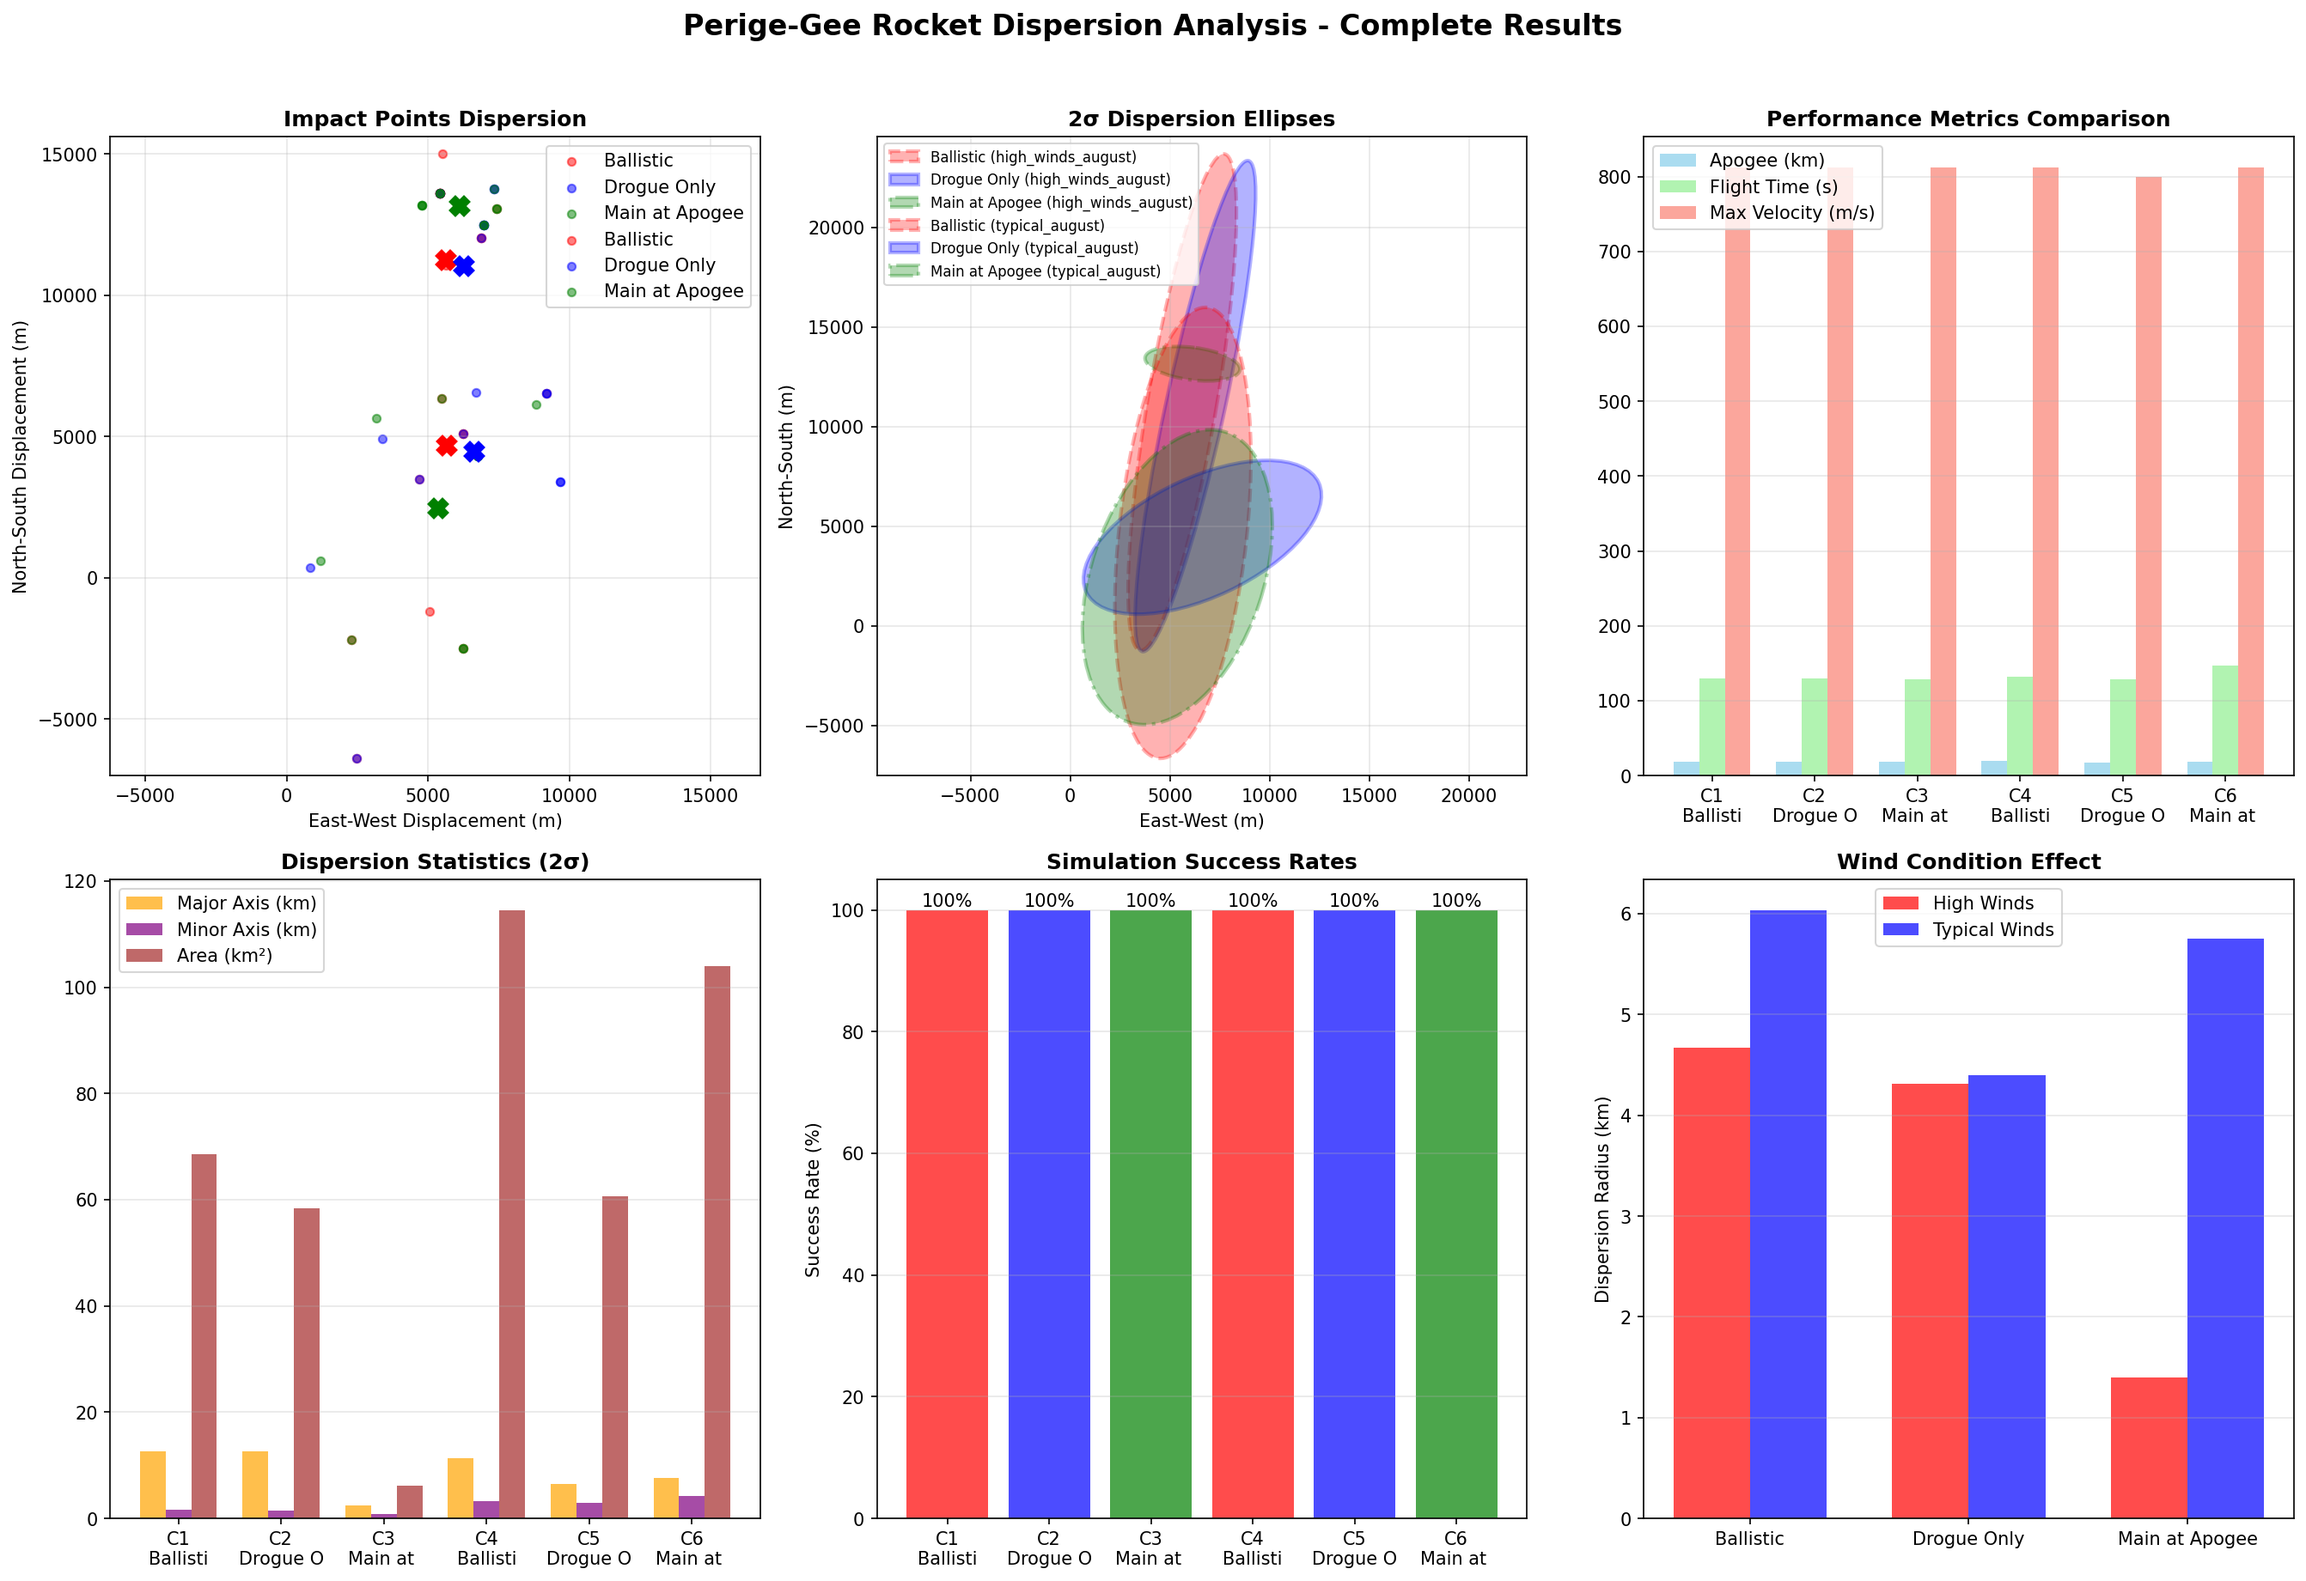
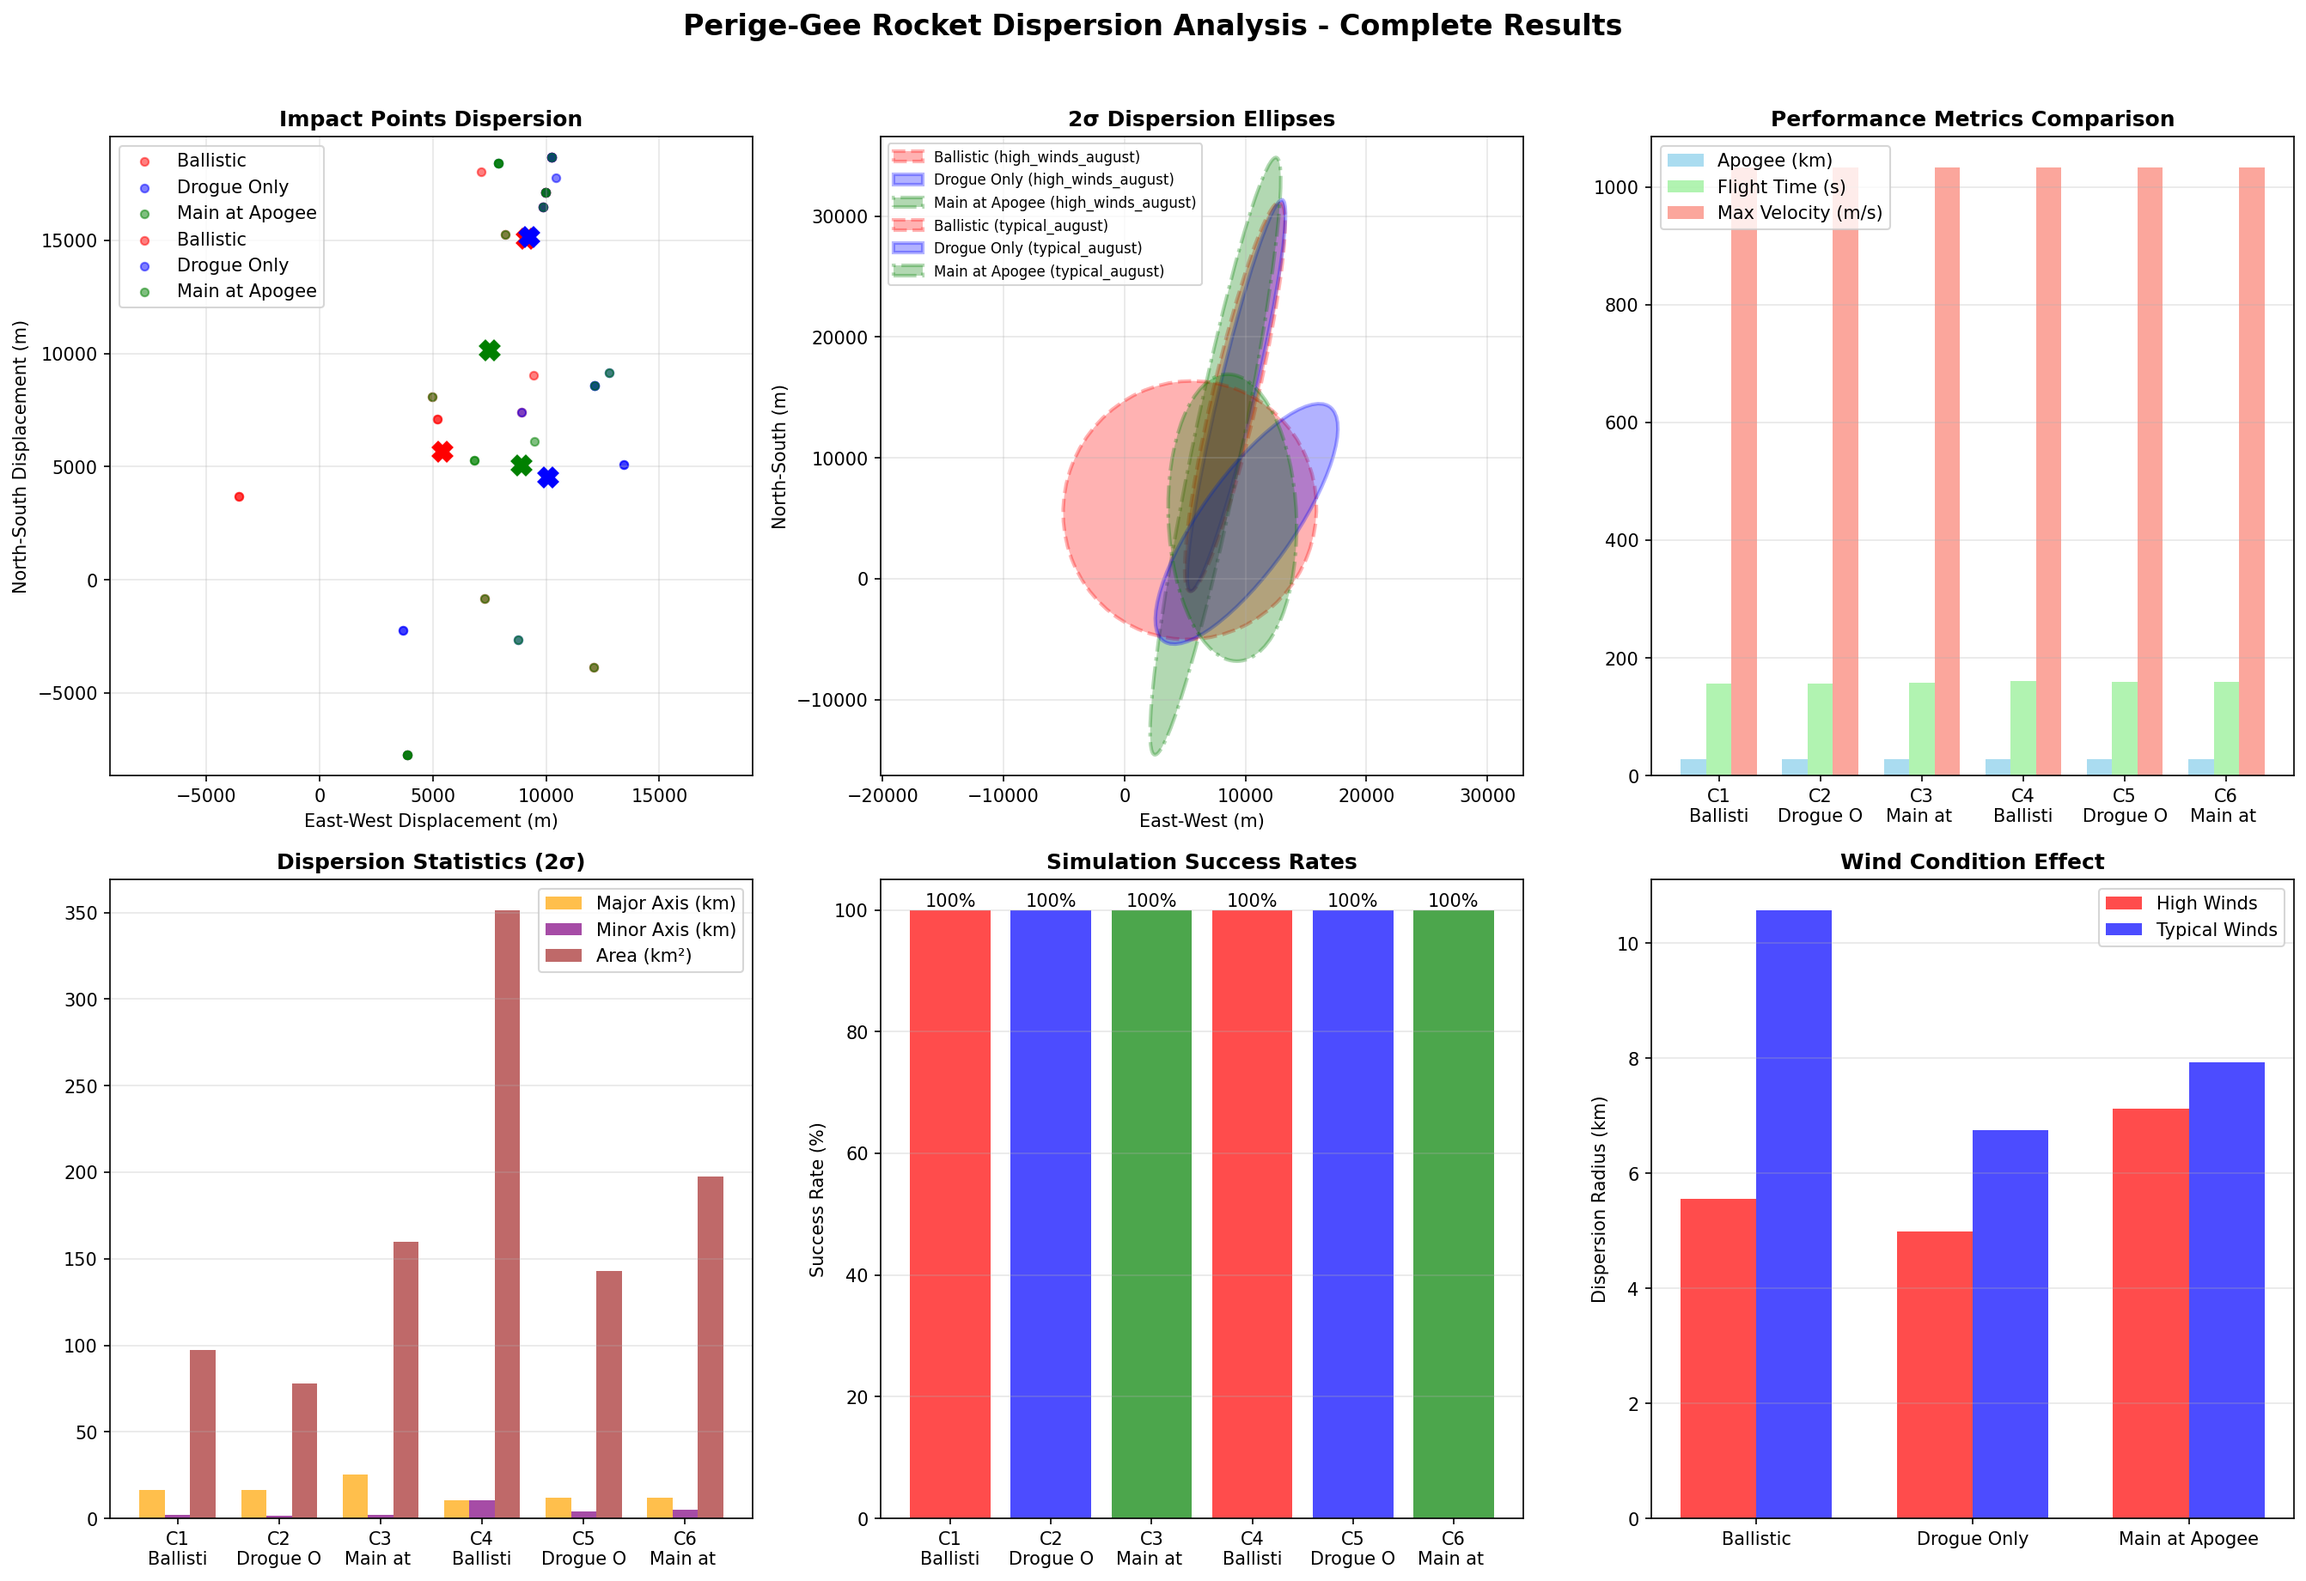
changez

diff --git a/Dispersion Analysis/monte_carlo.py b/Dispersion Analysis/monte_carlo.py
@@ -25,14 +25,14 @@ print("="*80)
 
 PERIGE_GEE_PARAMS = {
     'name': 'Perige-Gee',
-    'mass': 12.863,  # kg (dry)
-    'radius': 39.6215/1000,  # m
+    'mass': 8,  # kg (dry)
+    'radius': 26.416/1000,  # m
     'inertia': (0.85, 0.85, 0.02),  
     'com_without_motor': 0.62,
     'motor_impulse': 1415.15,  # N-s
     'burn_time': 5.274,  # s
-    'cd_s_drogue': 1.4,  # m²
-    'cd_s_main': 2.2,  # m² 
+    'cd_s_drogue': 1.4 * 3.14 *0.4*0.4/2,  # m²
+    'cd_s_main': 2.2 * 3.14*1.3*1.3/2,  # m² 
     'inclination': 84.7,  # degrees
     'heading': 53,  # degrees from north
     'rail_length': 5.2,
@@ -40,8 +40,8 @@ PERIGE_GEE_PARAMS = {
 
 LAUNCH_SITE = {
     'name': 'Timmins',
-    'latitude': 48.4669,
-    'longitude': -81.333,
+    'latitude': 47.9870,
+    'longitude': -81.84830,
     'elevation': 305,  # m
     'utm_zone': '17T',
 }
@@ -151,15 +151,16 @@ def create_perige_gee_rocket(rocket_params, drogue=True, main=True, main_at_apog
         thrust_source="motors/perige_gee_thrust.csv",
         dry_mass=3.108,
         dry_inertia=(0.397, 0.004, 0.397),
-        center_of_dry_mass_position=0.512,
+        center_of_dry_mass_position=0.350,
         grains_center_of_mass_position=0.563,
         burn_time=5.274,
-        grain_number=6,
+        grain_number=4,
         grain_density=1560,
         grain_outer_radius=0.035,
         grain_initial_inner_radius=0.01,
-        grain_initial_height=0.155,
+        grain_initial_height=0.115,
         grain_separation=0.005,
+        nozzle_position = 0,
         nozzle_radius=0.026,
         throat_radius=0.0076,
         interpolation_method="linear",
@@ -192,17 +193,20 @@ def create_perige_gee_rocket(rocket_params, drogue=True, main=True, main_at_apog
         span=0.0762,  # semi-span
         root_chord=0.254,
         tip_chord=0.0508,
-        position=-0.101,
+        position=0.254,
         cant_angle=0,
+        
     )
     
     # Add rail buttons
     rocket.set_rail_buttons(
         upper_button_position=0.1,
-        lower_button_position=0.93,
+        lower_button_position=1,
     )
+    rocket.plots.static_margin()
     
-    # Add parachutes if specified - FIXED TRIGGER FUNCTIONS
+    rocket.draw()
+    
     if drogue:
         max_altitude = [0]
 
@@ -211,15 +215,18 @@ def create_perige_gee_rocket(rocket_params, drogue=True, main=True, main_at_apog
             if current_h > max_altitude[0]:
                 max_altitude[0] = current_h
                 return False
-            return current_h < max_altitude[0] - 50
+            return current_h < max_altitude[0]
         
         rocket.add_parachute(
             "Drogue",
             cd_s=rocket_params['cd_s_drogue'],
             trigger=drogue_trigger,
             sampling_rate=105,
-            lag=1.0,  # Increased lag to prevent conflicts
+            lag=1.5,  # Increased lag to prevent conflicts
             noise=(0, 8.3, 0.5),
+            radius=0.4,
+            height=1.5,
+            porosity=0.0432,
         )
     
     if main:
@@ -232,11 +239,11 @@ def create_perige_gee_rocket(rocket_params, drogue=True, main=True, main_at_apog
                 if current_h > max_alt_main[0]:
                     max_alt_main[0] = current_h
                     return False
-                return current_h < max_alt_main[0] - 100
+                return current_h < max_alt_main[0] 
         else : 
             def main_trigger(p, y, h):
                 current_h = h[0] if isinstance(h, (list, np.ndarray)) else h
-                return current_h <= 295 
+                return current_h <= 450 
             
         rocket.add_parachute(
             "Main",
@@ -245,10 +252,15 @@ def create_perige_gee_rocket(rocket_params, drogue=True, main=True, main_at_apog
             sampling_rate=105,
             lag=1.5,  # Increased lag to prevent conflicts
             noise=(0, 8.3, 0.5),
+            radius=1.3,
+            height=1.5,
+            porosity=0.0432,
         )
-    
-    return rocket
+        
 
+    return rocket
+        
+        
 def test_single_flight():
     global high_pool, typical_pool
     
@@ -946,6 +958,8 @@ def main():
         print("\n" + "="*80)
         print("GENERATING VISUALIZATIONS")
         print("="*80)
+        
+
         
         print("1. Creating comprehensive analysis visualization...")
         create_comprehensive_visualization(all_results)
